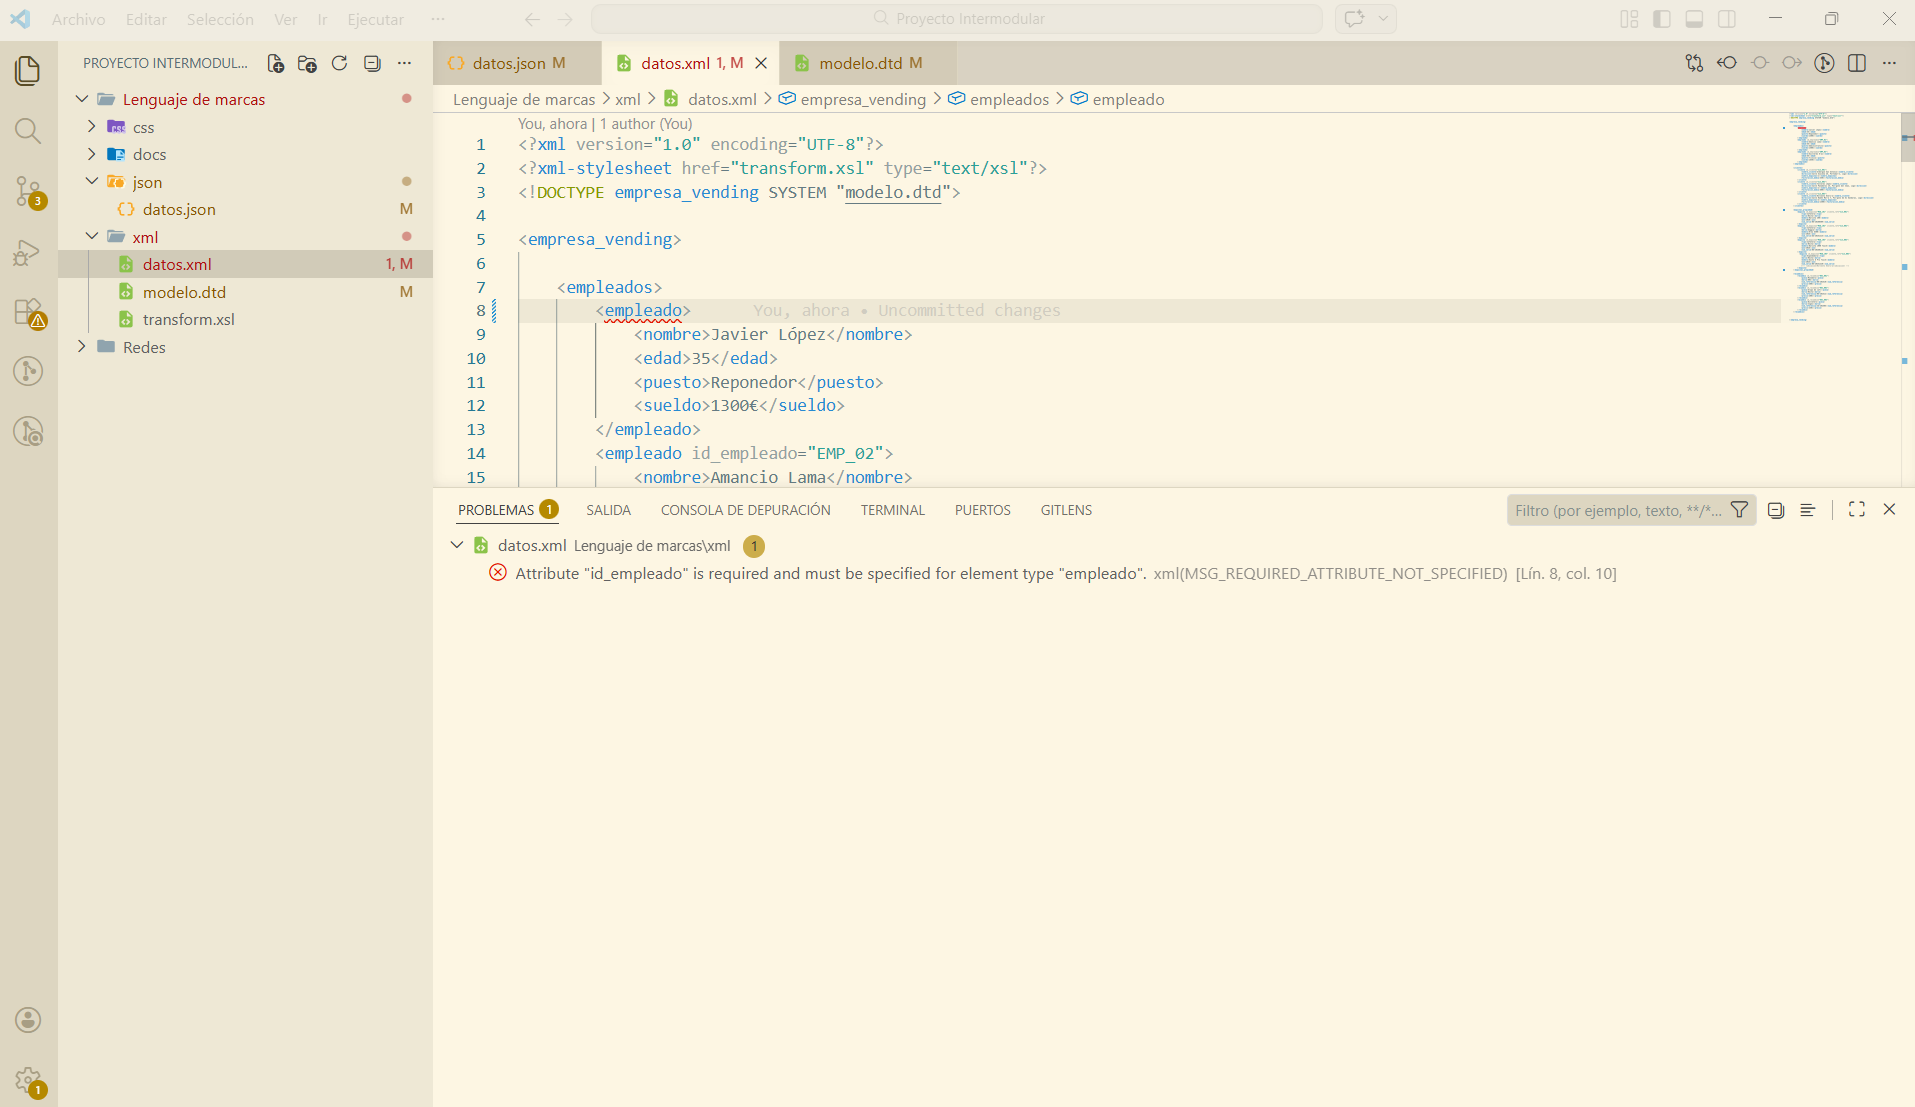
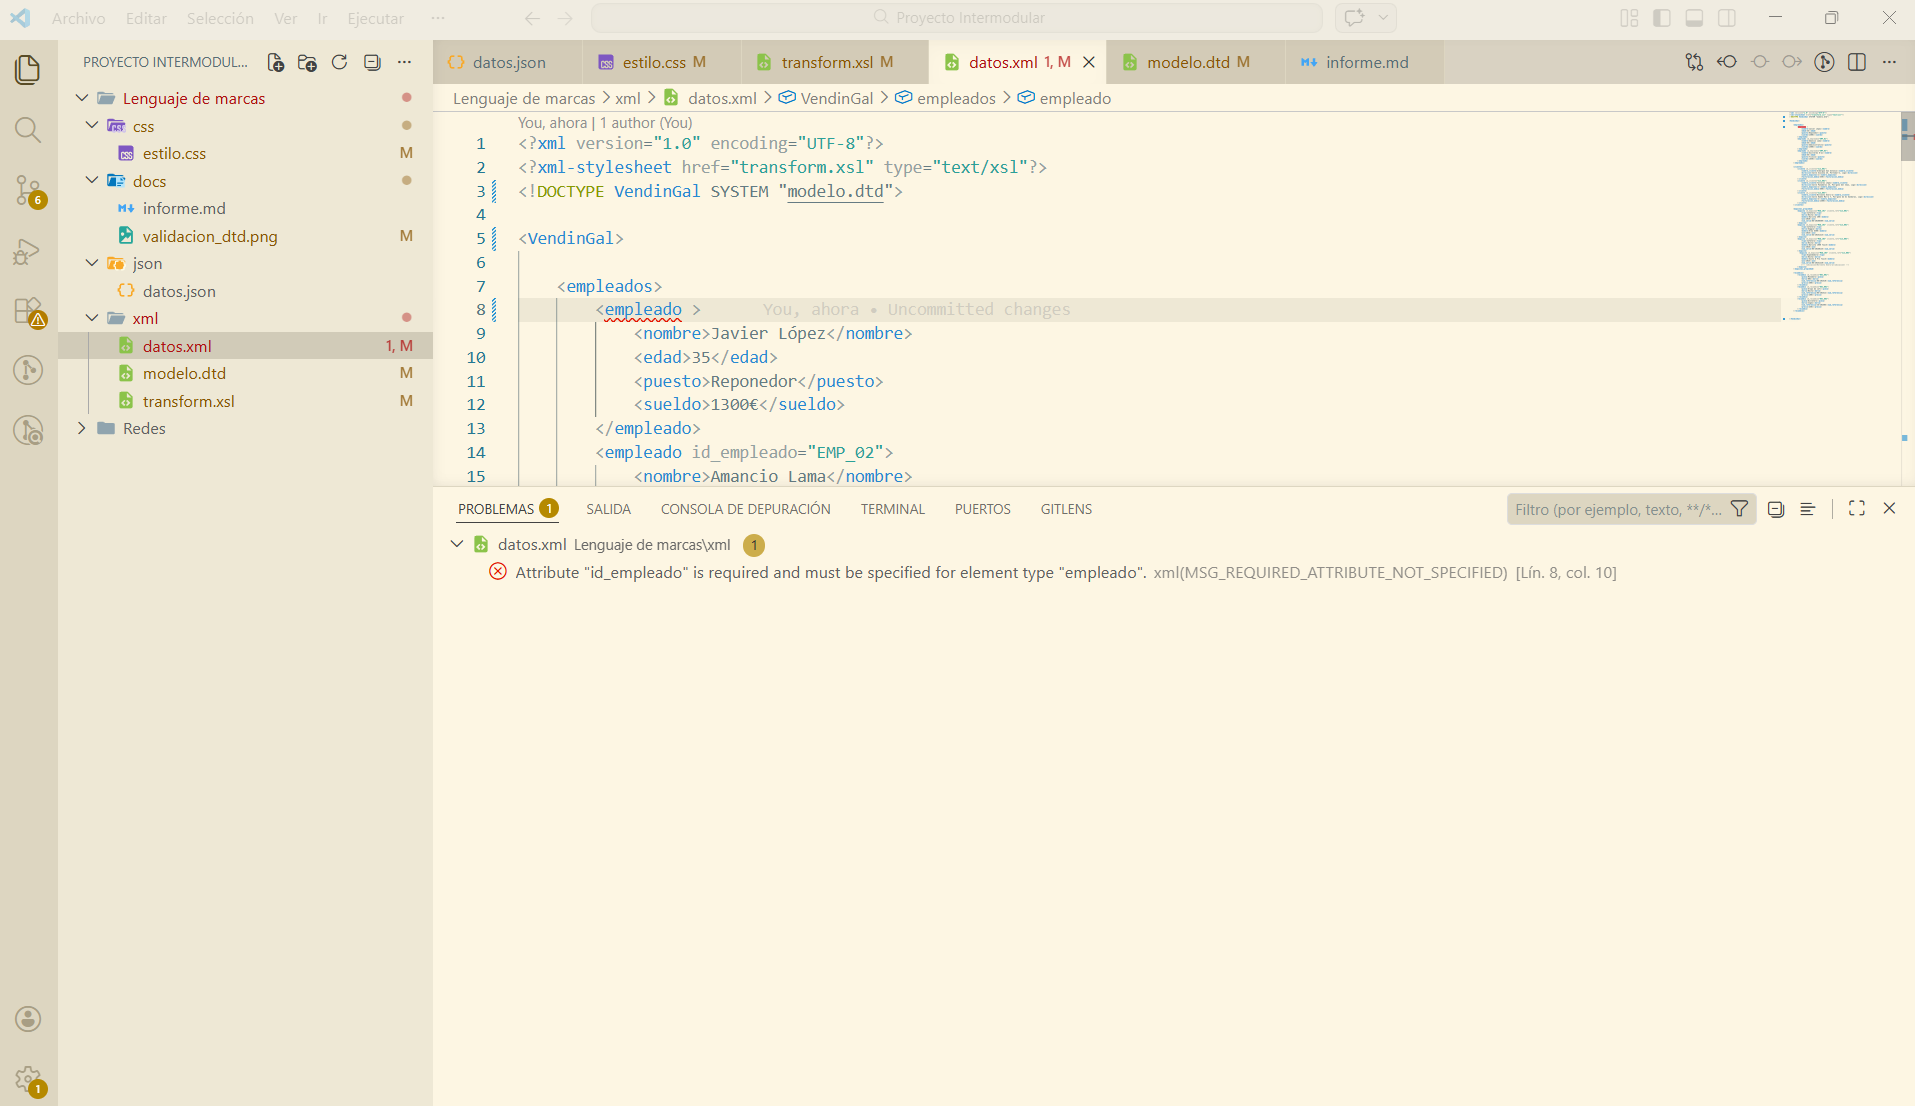
css mejorado, nombre empresa cambiado y nuevos .png con nuevo nombre

diff --git a/Lenguaje de marcas/css/estilo.css b/Lenguaje de marcas/css/estilo.css
@@ -1,33 +1,48 @@
 
             * {
                 font-family: Arial, sans-serif;
-                background-color: #C7E6F0;
+                box-sizing: border-box;
             }
 
-            h1, h2 {
-                color: #4A5B8F;
-                width: 60%;
-                margin: 10px auto;
+            body {
+                background-color: #C7E6F0;
+                margin: 0;
+                padding: 20px;
+            }
+
+            body > div {
+                background-color: rgb(247, 248, 250);
+                width: 90%;
+                max-width: 1300px;
+                margin: 0 auto;
+                border-radius: 10px;
+                padding: 30px;
+                box-shadow: 2px 5px 20px rgb(182, 180, 180) ;
             }
 
             h1 {
-                margin-top: 20px;
+                color: #4A5B8F;
+                background-color: #F79F72;
+                padding: 15px;
+                margin-top: 0;
             }
 
             h2 {
-                /* color: #4A5B8F; */
+                color: #4A5B8F;
+                background-color: #C7E6F0;
                 margin-top: 40px;
-                
+                padding: 10px;
             }
             
-            head {
-                color: orange;
+            .tabla {
+                width: 100%;
+                overflow-x: auto;
+                margin-bottom: 20px;
             }
 
             table {
-                width: 60%;
-                margin: 10px auto;
-                
+                width: 100%;
+                margin-top: 10px;
                 border: 5px #C7E6F0;
                 border-radius: 5px;
             }
@@ -36,12 +51,14 @@
                 background-color: white; 
                 text-align: center;
                 padding: 10px;
+                border: 1px solid #C7E6F0;
+
             }
 
             th {
                 background-color: #F79F72;
                 text-align: center;
                 padding: 7px;
+                border: 1px solid #C7E6F0;
             }
-
          
